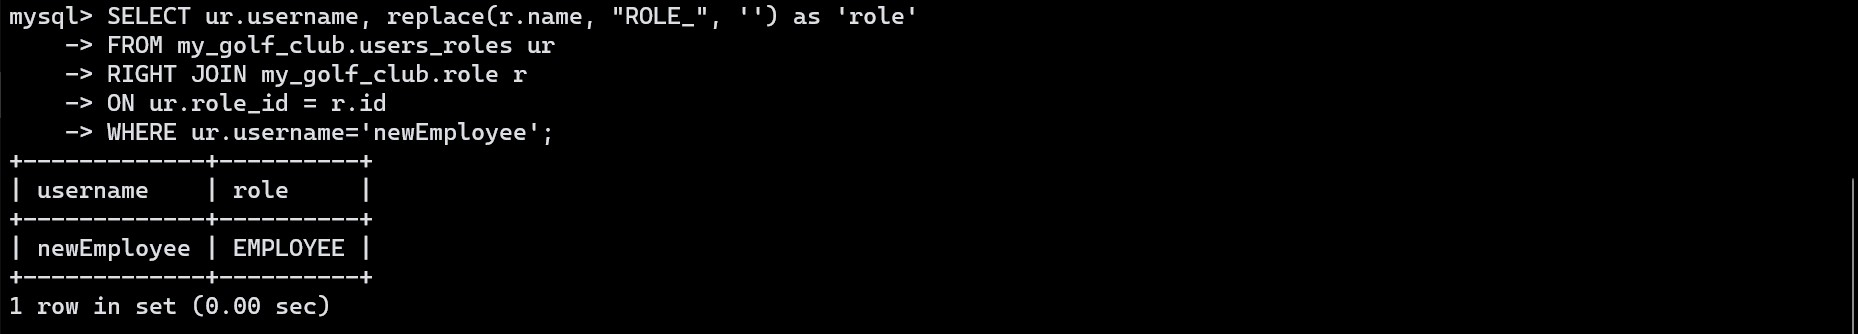
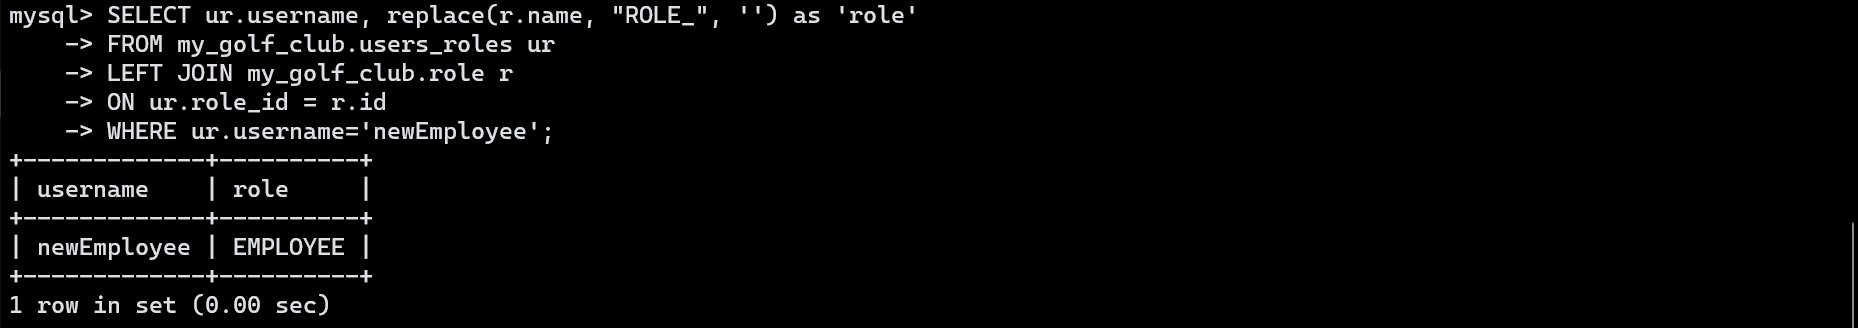
Replaced RIGHT JOIN with LEFT JOIN.

diff --git a/README.md b/README.md
@@ -780,7 +780,7 @@ We can also list users via GUI application:
 ```textmate
     SELECT ur.username, replace(r.name,"ROLE_", '') as 'role'
     FROM my_golf_club.users_roles ur
-    RIGHT JOIN my_golf_club.role r
+    LEFT JOIN my_golf_club.role r
     ON ur.role_id = r.id
     WHERE ur.username=$username;
 ```
